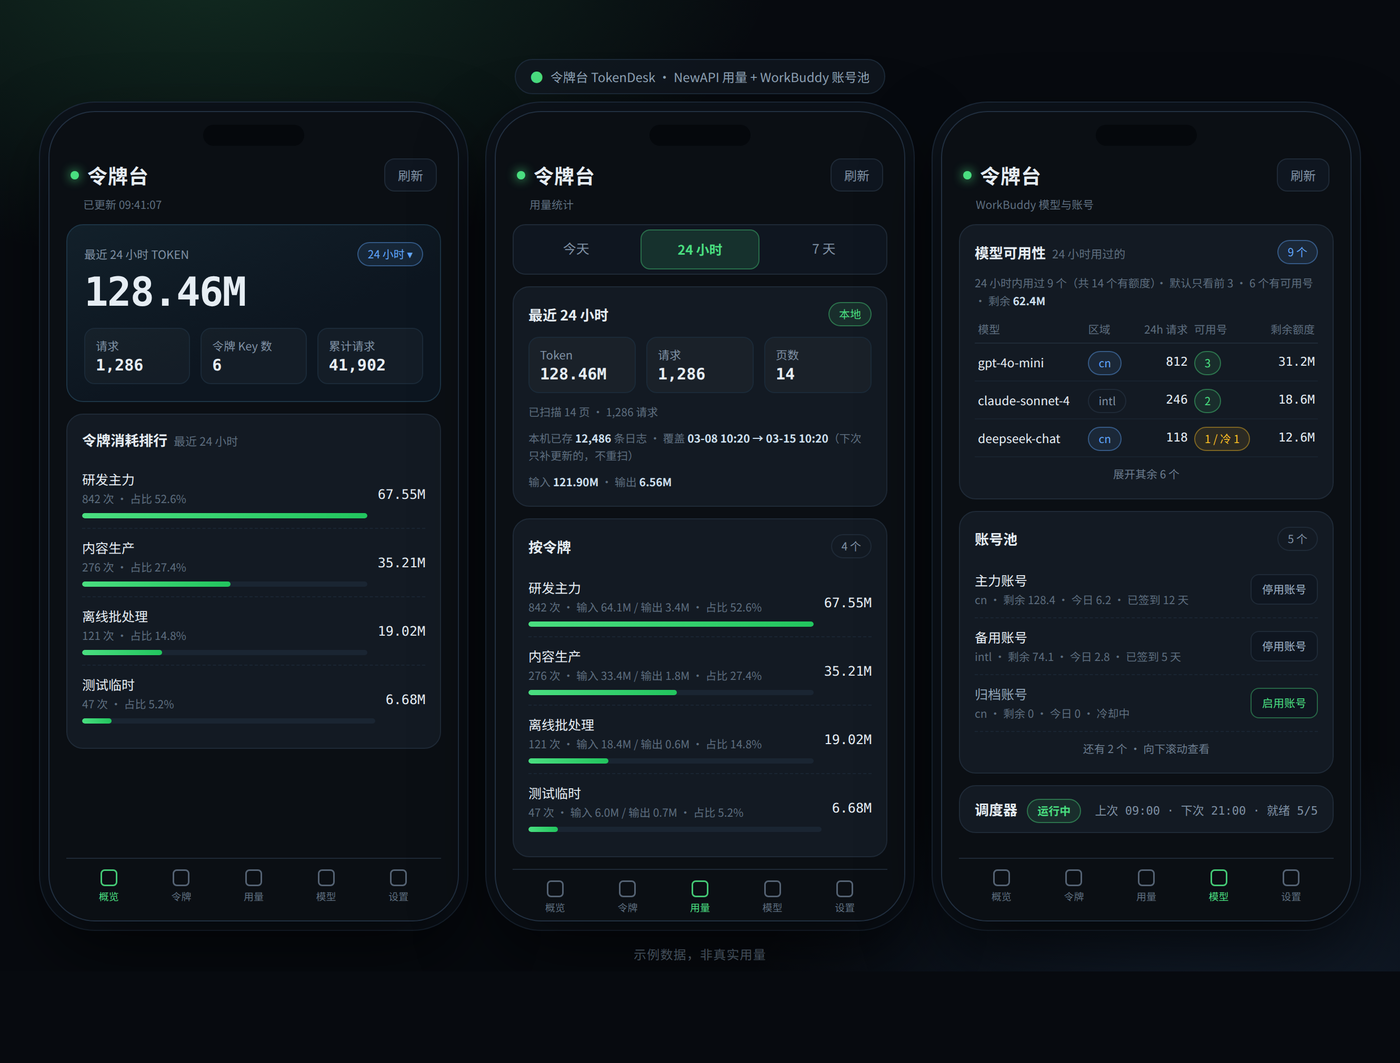
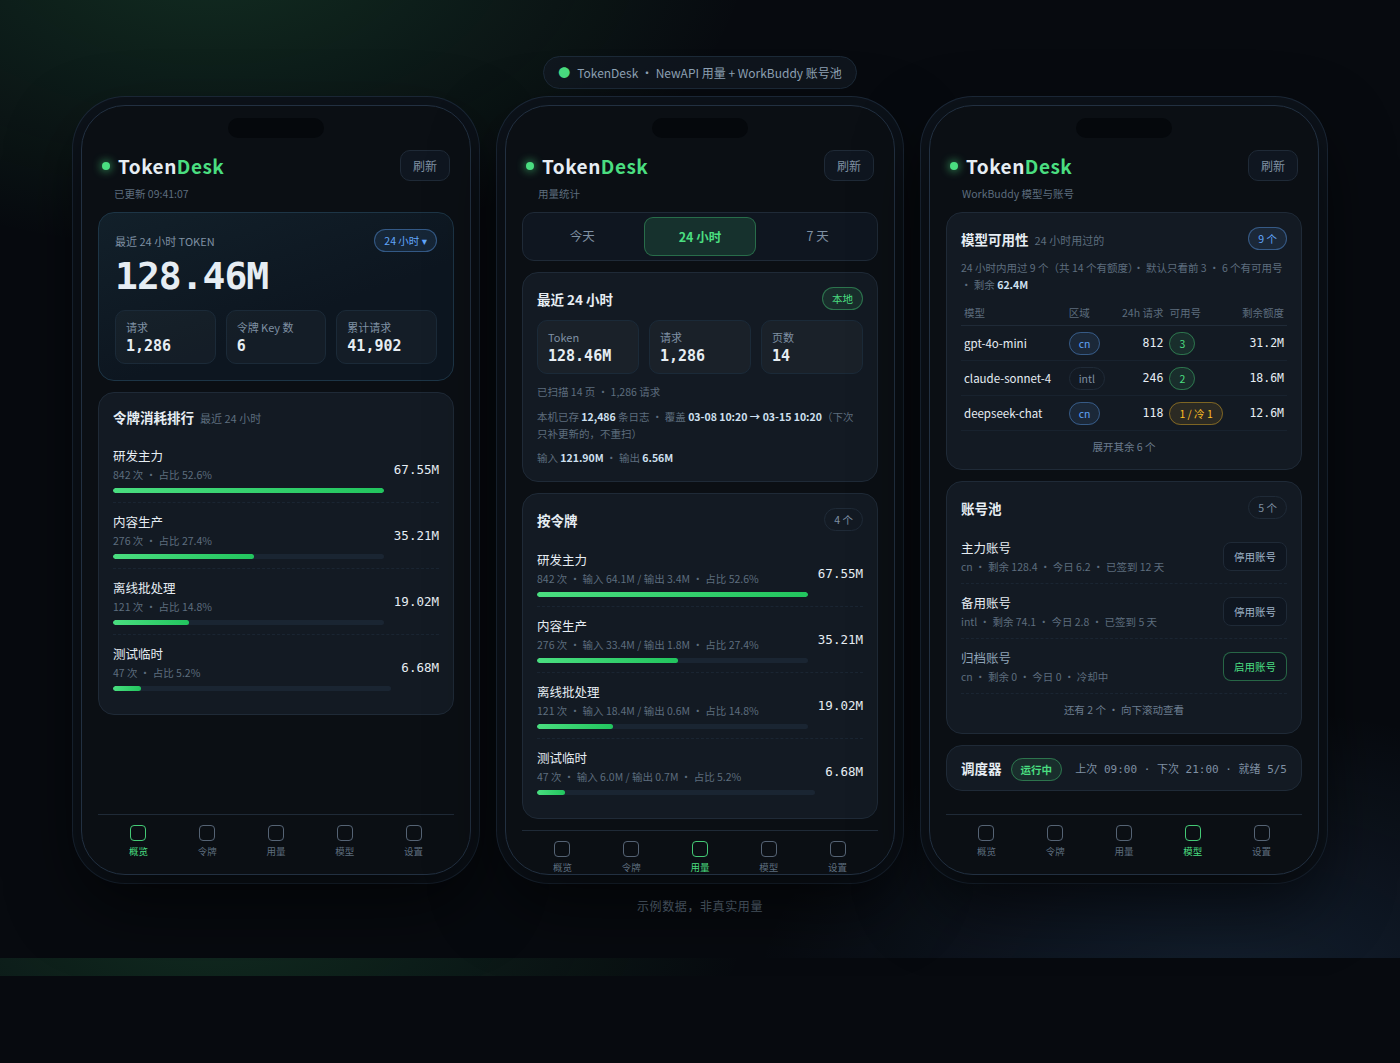
令牌页增加消耗金额，累计口径修正

diff --git a/app/assets/app.js b/app/assets/app.js
@@ -283,6 +283,7 @@
     usage: null,
     usageLive: null,
     wb: null,
+    rate: null,
     busy: {},
     errors: {},
     hubToken: '',
@@ -328,6 +329,44 @@
 
   function num(n) { n = Number(n); return isFinite(n) ? n : 0; }
   function fmtInt(n) { return Math.round(num(n)).toLocaleString('en-US'); }
+
+  function parseRate(st) {
+    if (!st) return null;
+    var unit = num(st.quota_per_unit) > 0 ? num(st.quota_per_unit) : 500000;
+    var kind = String(st.quota_display_type || '').toUpperCase();
+    var fx = num(st.usd_exchange_rate) || num(st.price) || 1;
+    if (kind === 'CNY') return { unit: unit, cny: fx > 0 ? fx : 1, sym: '¥', kind: 'CNY' };
+    if (kind === 'CUSTOM') {
+      var cr = num(st.custom_currency_exchange_rate);
+      return { unit: unit, cny: cr > 0 ? cr : 1, sym: String(st.custom_currency_symbol || '') || '¤', kind: 'CUSTOM' };
+    }
+    if (kind === 'USD') return { unit: unit, cny: 1, sym: '$', kind: 'USD' };
+    return { unit: unit, cny: fx > 0 ? fx : 1, sym: '¥', kind: 'CNY' };
+  }
+
+  function rateInfo() {
+    var r = S.rate || {};
+    var unit = num(r.unit) > 0 ? num(r.unit) : 500000;
+    var cny = num(r.cny) > 0 ? num(r.cny) : 1;
+    return { unit: unit, cny: cny, sym: r.sym || (S.rate ? '¥' : '$') };
+  }
+
+  function cnyNum(q) {
+    var r = rateInfo();
+    return num(q) / r.unit * r.cny;
+  }
+
+  function cnyOf(q) {
+    var r = rateInfo();
+    var v = cnyNum(q);
+    if (!isFinite(v)) return r.sym + '—';
+    if (v === 0) return r.sym + '0';
+    var a = Math.abs(v);
+    if (a >= 1000) return r.sym + fmtInt(v);
+    if (a >= 1) return r.sym + v.toFixed(2);
+    if (a >= 0.01) return r.sym + v.toFixed(3);
+    return r.sym + v.toFixed(4);
+  }
 
   function fmtTok(n) {
     n = Math.round(num(n));
@@ -674,10 +713,12 @@
     setSub('读取 NewAPI 账户…');
     return Promise.all([
       napiRaw('/api/user/self', 'GET', undefined, !!force),
-      loadAllTokens(!!force)
+      loadAllTokens(!!force),
+      napiRaw('/api/status', 'GET', undefined, !!force).catch(function () { return null; })
     ]).then(function (res) {
       S.over = { user: res[0] || {}, at: Date.now(), tokenTotal: res[1].total, tokenTruncated: res[1].truncated };
       S.tokens = normTokens(res[1]);
+      S.rate = parseRate(res[2]);
       delete S.errors.overview;
       setSub('已更新 ' + hhmmss());
     }).catch(function (e) {
@@ -961,6 +1002,18 @@
     return Math.min(95, 8 + Math.min(80, agg.pages * 5));
   }
 
+  function tokUsedSum() {
+    var s = 0;
+    if (S.tokens) for (var i = 0; i < S.tokens.length; i++) s += num(S.tokens[i].used);
+    return s;
+  }
+
+  function cumQuota(used, w) {
+    var u = num(used);
+    var win = w ? num(w.quota) : 0;
+    return Math.max(u, win);
+  }
+
   function renderTokens() {
     var el = viewEl('tokens');
     var html = '';
@@ -983,6 +1036,8 @@
       (S.over && S.over.tokenTruncated ? ' <span class="pill warn">仅显示前 ' + S.tokens.length + '</span>' : '') + '</span></div>' +
       '<div class="kv"><span class="k">窗口请求</span><span class="v mono">' + (usage ? fmtInt(usage.req) : '—') + '</span></div>' +
       '<div class="kv"><span class="k">窗口 Token</span><span class="v mono">' + (usage ? fmtTok(usage.total) : '—') + '</span></div>' +
+      '<div class="kv"><span class="k">本期消耗</span><span class="v mono cny">' + (usage ? cnyOf(usage.quota) : '—') + '</span></div>' +
+      '<div class="kv"><span class="k">累计消耗</span><span class="v mono">' + (S.tokens ? cnyOf(usage ? Math.max(tokUsedSum(), num(usage.quota)) : tokUsedSum()) : '—') + '</span></div>' +
       '</div>';
 
     if (!S.tokens) {
@@ -1019,10 +1074,11 @@
         '<div class="tok-grid">' +
         '<div><span class="k">本期 Token</span><b class="mono">' + (!usage ? '统计中…' : fmtTok(w ? w.tokens : 0)) + '</b></div>' +
         '<div><span class="k">本期请求</span><b class="mono">' + (!usage ? '—' : (w ? fmtInt(w.req) : '0')) + '</b></div>' +
-        '<div><span class="k">剩余额度</span><b class="mono">' + (t.unlimited ? '无限' : fmtQty(t.remain)) + '</b></div>' +
-        '<div><span class="k">累计消耗</span><b class="mono">' + fmtQty(t.used) + '</b></div>' +
+        '<div><span class="k">本期消耗</span><b class="mono cny">' + (!usage ? '统计中…' : cnyOf(w ? w.quota : 0)) + '</b></div>' +
+        '<div><span class="k">累计消耗</span><b class="mono">' + cnyOf(cumQuota(t.used, w)) + '</b></div>' +
         '</div>' +
         '<div class="tok-sub">' +
+        '<span><i>剩余额度</i>' + (t.unlimited ? '无限' : fmtQty(t.remain)) + '</span>' +
         '<span><i>有效期</i>' + esc(expiry) + '</span>' +
         '<span><i>最后使用</i>' + ago(t.accessed) + '</span>' +
         (t.models.length ? '<span><i>模型</i>限定 ' + t.models.length + ' 个</span>' : '<span><i>模型</i>不限</span>') +

diff --git a/app/assets/style.css b/app/assets/style.css
@@ -186,6 +186,8 @@ body{
 .tok-grid{display:grid;grid-template-columns:1fr 1fr;gap:9px 14px;margin-top:11px}
 .tok-grid .k{display:block;font-size:11.5px;color:var(--dim-2);letter-spacing:.02em;margin-bottom:1px}
 .tok-grid b{font-size:14px;font-weight:700;font-variant-numeric:tabular-nums}
+.tok-grid b.cny{color:var(--acc)}
+.kv .v.cny{color:var(--acc)}
 .tok-acts{display:flex;gap:8px;margin-top:11px}
 .btn{
   flex:1 1 0;height:44px;border-radius:12px;border:1px solid var(--line);

diff --git a/tools/webtest.py b/tools/webtest.py
@@ -1,4 +1,4 @@
-"""令牌台 Web 层自测：用 headless Chrome + CDP 真实访问局域网接口，逐页签抓文本。
+"""TokenDesk Web 层自测：用 headless Chrome + CDP 真实访问局域网接口，逐页签抓文本。
 
 用法：python3 tools/webtest.py            # 自动从项目根 .env / 环境变量取凭证写测试用 bootstrap
 产物：$TMPDIR/tokendesk-test/{dom-*.txt,screen-*.png}（默认系统临时目录）

diff --git a/tools/make_icon.py b/tools/make_icon.py
@@ -1,4 +1,4 @@
-"""生成令牌台 Launcher 图标（各密度 mipmap PNG）。一次性工具，产物随工程提交。"""
+"""生成TokenDesk Launcher 图标（各密度 mipmap PNG）。一次性工具，产物随工程提交。"""
 import os
 from PIL import Image, ImageDraw
 

diff --git a/README.md b/README.md
@@ -1,4 +1,4 @@
-# 令牌台 TokenDesk
+# TokenDesk
 
 手机上的 LLM 网关遥控器：查看 NewAPI 的令牌用量，管理令牌与账号池。
 
@@ -11,7 +11,7 @@
 | 页签 | 内容 |
 |---|---|
 | 概览 | 今日 / 24 小时 token 与请求数、令牌消耗排行 |
-| 令牌 | 按消耗排序、启用停用、改额度与模型白名单、复制 Key、删除 |
+| 令牌 | 按消耗排序、本期与累计消耗金额（¥）、启用停用、改额度与模型白名单、复制 Key、删除 |
 | 用量 | 按令牌 / 按模型拆分，今天 / 24 小时 / 7 天切换，本地缓存、切换不发请求 |
 | 模型 | 账号池状态与逐个启停、模型可用性与额度 |
 | 设置 | 地址与凭证、请求通道、自动刷新 |
